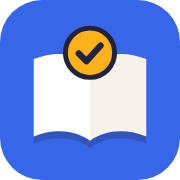
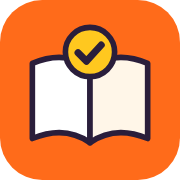
Bolder playful sticker-style theme
Claude-Session: https://claude.ai/code/session_01PqgtxPexYRDypSJ4oThriq

diff --git a/styles.css b/styles.css
@@ -1,31 +1,31 @@
 /* Layout: a phone app in a "storybook toybox" look — rounded friendly type, chunky buttons that press down, bright page colors on a warm paper ground. Each area owns a color: money green, jobs blue, reading violet, screen sunshine. */
 :root{
-  --bg:#F6F2EA; --surface:#FFFFFF; --sunk:#EFE9DE; --ink:#24213A; --muted:#6A6478; --line:#E4DCCD;
-  --money:#159A62; --money-deep:#0E7149; --money-soft:#DDF3E7; --hero:#159A62;
-  --jobs:#3767E8; --jobs-soft:#E3EAFE;
-  --read:#7B4BE6; --read-soft:#EDE5FD;
-  --screen:#FFB21E; --board:#24213A; --board-raise:#33304D; --board-line:#45415F; --board-ink:#FBF7EF; --board-muted:#B5AFC6;
-  --danger:#E04A3F; --danger-soft:#FCE6E3;
+  --bg:#FFF6E8; --surface:#FFFFFF; --sunk:#FFEBD2; --ink:#2A1E3B; --muted:#6E5F7E; --line:#F1DFC6; --edge:#2A1E3B;
+  --money:#1FA34A; --money-deep:#147A36; --money-soft:#DCF5D9; --hero:#1FA34A;
+  --jobs:#FF6B1A; --jobs-soft:#FFE3D0;
+  --read:#7A3FF2; --read-soft:#ECE2FF;
+  --screen:#FFC81F; --board:#2A1E3B; --board-raise:#3B2D50; --board-line:#4E3F66; --board-ink:#FFF6E8; --board-muted:#C3B6D3;
+  --danger:#E8423B; --danger-soft:#FFE1DD;
   --press:rgba(36,33,58,.18);
   --shadow:0 2px 0 rgba(36,33,58,.06),0 6px 18px rgba(36,33,58,.06);
-  --display:"Fredoka","Baloo 2","Arial Rounded MT Bold",system-ui,sans-serif;
+  --display:"Baloo 2","Fredoka","Arial Rounded MT Bold",system-ui,sans-serif;
   --body:"Nunito","Segoe UI",system-ui,-apple-system,sans-serif;
-  --mono:"Fredoka","Nunito",ui-rounded,system-ui,sans-serif;
+  --mono:"Baloo 2","Nunito",ui-rounded,system-ui,sans-serif;
   --r:24px;
 }
 @media (prefers-color-scheme: dark){:root:not([data-theme="light"]){
-  --bg:#17152A; --surface:#221F38; --sunk:#2B2845; --ink:#F4EFE6; --muted:#ADA6C2; --line:#36324F;
-  --money:#3FD08F; --money-deep:#0E5A3B; --money-soft:#173A2C; --hero:#128353;
-  --jobs:#7E9CFF; --jobs-soft:#232C55;
-  --read:#B497FF; --read-soft:#2E2552;
-  --screen:#FFC24D; --board:#100E1F; --board-raise:#26233D; --board-line:#3A3656;
+  --bg:#1A1426; --surface:#251D35; --sunk:#30263F; --ink:#FFF3E2; --muted:#BBAFCB; --line:#3A2F4C; --edge:#08050D;
+  --money:#4BD873; --money-deep:#11592A; --money-soft:#173A22; --hero:#178A3D;
+  --jobs:#FF8B45; --jobs-soft:#45281A;
+  --read:#AE8BFF; --read-soft:#30244F;
+  --screen:#FFD24D; --board:#0F0A18; --board-raise:#241B33; --board-line:#3A2F4C;
   --danger:#FF7A6E; --danger-soft:#43211F; --press:rgba(0,0,0,.45); --shadow:none; color-scheme:dark}}
 :root[data-theme="dark"]{
-  --bg:#17152A; --surface:#221F38; --sunk:#2B2845; --ink:#F4EFE6; --muted:#ADA6C2; --line:#36324F;
-  --money:#3FD08F; --money-deep:#0E5A3B; --money-soft:#173A2C; --hero:#128353;
-  --jobs:#7E9CFF; --jobs-soft:#232C55;
-  --read:#B497FF; --read-soft:#2E2552;
-  --screen:#FFC24D; --board:#100E1F; --board-raise:#26233D; --board-line:#3A3656;
+  --bg:#1A1426; --surface:#251D35; --sunk:#30263F; --ink:#FFF3E2; --muted:#BBAFCB; --line:#3A2F4C; --edge:#08050D;
+  --money:#4BD873; --money-deep:#11592A; --money-soft:#173A22; --hero:#178A3D;
+  --jobs:#FF8B45; --jobs-soft:#45281A;
+  --read:#AE8BFF; --read-soft:#30244F;
+  --screen:#FFD24D; --board:#0F0A18; --board-raise:#241B33; --board-line:#3A2F4C;
   --danger:#FF7A6E; --danger-soft:#43211F; --press:rgba(0,0,0,.45); --shadow:none; color-scheme:dark}
 *{box-sizing:border-box}
 body{background:var(--bg);color:var(--ink);font:16px/1.45 var(--body);
@@ -289,3 +289,34 @@ input,select{border-width:2px;border-radius:14px}
 .opt{border-width:2px;border-radius:16px;font-weight:700}
 .opt[aria-pressed="true"]{box-shadow:0 3px 0 rgba(0,0,0,.25)}
 @media (prefers-reduced-motion:reduce){.pill,.save,.go{transition:none}}
+
+/* ---------- sticker style: ink outlines + hard offset shadows ---------- */
+:root{--pop:3px 3px 0 var(--edge);--pop-lg:5px 5px 0 var(--edge)}
+.card,.list,.kcard,.who button,.tile,.bucket,.hero,.board,.sheet .list{border:2.5px solid var(--edge)!important;box-shadow:var(--pop-lg)!important}
+.sheet .card{border:2.5px solid var(--edge);box-shadow:none}
+.pill,.save,.go,.chip,.lock,.opt,.ghost,.price,.sw{border:2.5px solid var(--edge)!important;box-shadow:var(--pop)!important}
+.pill:active,.save:active,.go:active,.chip:active,.opt:active{transform:translate(3px,3px);box-shadow:0 0 0 var(--edge)!important}
+.pill.soft{background:var(--surface);color:var(--ink)}
+.save{background:var(--jobs)} .go{color:var(--edge)}
+.board .opt{border-color:var(--edge)!important;box-shadow:3px 3px 0 #000!important}
+.row+.row{border-top:2px dashed var(--line)}
+.avatar{border:2.5px solid var(--edge);box-shadow:2px 2px 0 var(--edge)}
+.who .avatar{transform:rotate(-4deg)}
+.who button:nth-child(even) .avatar{transform:rotate(4deg)}
+.who button:active{transform:translate(3px,3px);box-shadow:0 0 0 var(--edge)!important}
+h1,.sheet h2,.sect-h h3,.kcard .kh h3,.big,.tile .v,.bucket b,.digits,.kcard .kh .wk,.progress .top .v{font-weight:800!important;letter-spacing:-.01em}
+h1{font-size:38px}
+.brand h1{font-size:46px;line-height:1}
+.brand .story{color:var(--jobs);display:inline-block;transform:rotate(-3deg)}
+.brand img{border:2.5px solid var(--edge);box-shadow:var(--pop);border-radius:16px}
+.hero .big{text-shadow:3px 3px 0 rgba(0,0,0,.22)}
+.hero::after{border:none;width:120px;height:120px;right:-24px;top:-24px;background:radial-gradient(circle,rgba(255,255,255,.18) 30%,transparent 31%) 0 0/24px 24px}
+.tabbar{border-top:2.5px solid var(--edge)}
+.tabbar button[aria-selected="true"] .ic{background:var(--screen);color:var(--edge);border:2px solid var(--edge)}
+.label{font-weight:900}
+input,select{border:2.5px solid var(--edge);background:var(--surface)}
+.tog{border:2.5px solid var(--edge)}
+.tog::after{top:1px;left:1px;border:2px solid var(--edge);box-shadow:none}
+.tog[aria-pressed="true"]::after{left:19px}
+.badge{border:2px solid var(--edge)}
+.toast{border:2.5px solid var(--edge);box-shadow:var(--pop)}

diff --git a/index.html b/index.html
@@ -5,7 +5,7 @@
 <meta name="viewport" content="width=device-width,initial-scale=1,viewport-fit=cover">
 <title>Chore Story</title>
 <meta name="description" content="Free allowance, chores, reading and screen-time tracker for families.">
-<meta name="theme-color" content="#159A62">
+<meta name="theme-color" content="#FF6B1A">
 <meta name="apple-mobile-web-app-capable" content="yes">
 <meta name="apple-mobile-web-app-title" content="Chore Story">
 <link rel="manifest" href="manifest.webmanifest">
@@ -13,7 +13,7 @@
 <link rel="apple-touch-icon" href="icon-180.png">
 <link rel="preconnect" href="https://fonts.googleapis.com">
 <link rel="preconnect" href="https://fonts.gstatic.com" crossorigin>
-<link rel="stylesheet" href="https://fonts.googleapis.com/css2?family=Fredoka:wght@500;600;700&family=Nunito:wght@400;600;700;800&display=swap">
+<link rel="stylesheet" href="https://fonts.googleapis.com/css2?family=Baloo+2:wght@600;700;800&family=Nunito:wght@400;600;700;800;900&display=swap">
 <link rel="stylesheet" href="styles.css">
 <style>:root{padding-top:env(safe-area-inset-top,0px)}body{margin:0}[hidden]{display:none!important}img{max-width:100%}</style>
 </head>

diff --git a/privacy.html b/privacy.html
@@ -1,7 +1,7 @@
 <!doctype html>
 <html lang="en"><head><meta charset="utf-8"><meta name="viewport" content="width=device-width,initial-scale=1,viewport-fit=cover">
 <title>Privacy · Chore Story</title><link rel="icon" href="icon.svg" type="image/svg+xml">
-<link rel="stylesheet" href="https://fonts.googleapis.com/css2?family=Fredoka:wght@500;600;700&family=Nunito:wght@400;600;700;800&display=swap">
+<link rel="stylesheet" href="https://fonts.googleapis.com/css2?family=Baloo+2:wght@600;700;800&family=Nunito:wght@400;600;700;800;900&display=swap">
 <link rel="stylesheet" href="styles.css">
 <style>body{margin:0}.doc{max-width:640px;margin:0 auto;padding:32px 0 64px;display:grid;gap:14px;line-height:1.6}.doc h1{font-size:40px}.doc h2{font:800 22px var(--display);text-transform:uppercase;letter-spacing:.03em;margin-top:12px}.doc p,.doc li{color:var(--ink);max-width:65ch}.doc a{color:var(--jobs)}</style>
 </head><body><main class="doc">

diff --git a/app.js b/app.js
@@ -3,7 +3,7 @@ const CFG = window.CHORE_JAR_CONFIG;
 const APP = CFG.appName || 'Chore Story';
 const sb = window.supabase.createClient(CFG.supabaseUrl, CFG.supabaseAnonKey, { auth: { persistSession: true, autoRefreshToken: true, detectSessionInUrl: true } });
 
-const COLORS = { green: '#0E7A4A', blue: '#2453D6', purple: '#7340D0', orange: '#C2570C', pink: '#B8327A', teal: '#0F766E' };
+const COLORS = { green: '#1FA34A', blue: '#2F6BFF', purple: '#7A3FF2', orange: '#FF6B1A', pink: '#F0418C', teal: '#0FA3A3' };
 const S = {
   user: null, family: null, members: [], invites: [], kids: [], jobs: [], weeks: [], credits: [], reading: [], screen: [], adjust: [],
   view: 'loading', profile: null, parentOk: false, tab: 'home', ptab: 'kids', jobKid: null, jobFilter: 'All',
